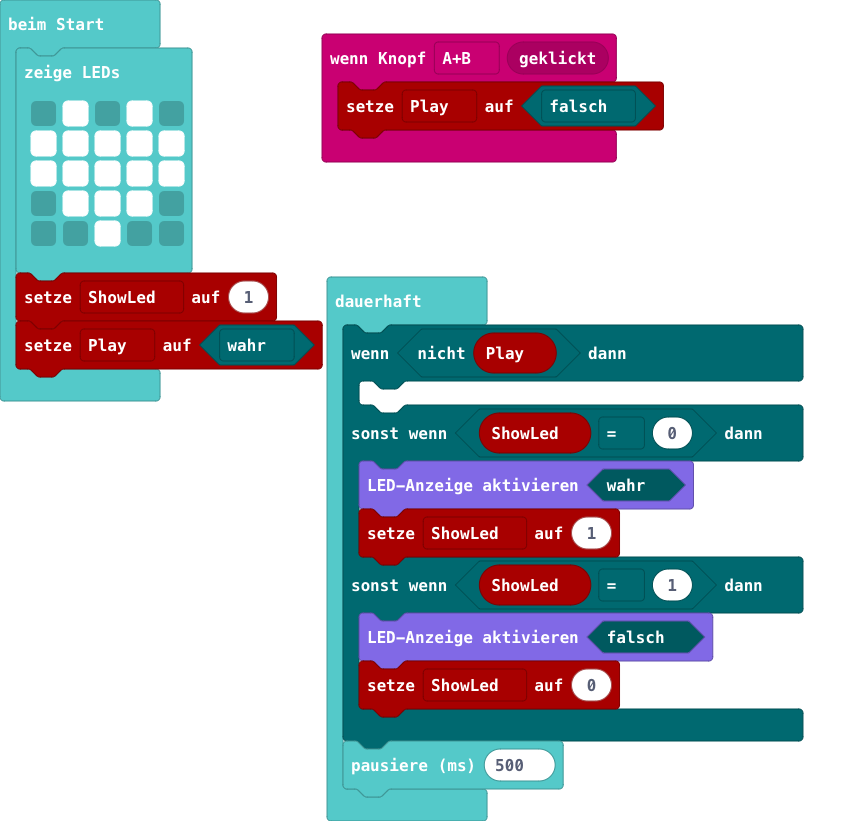
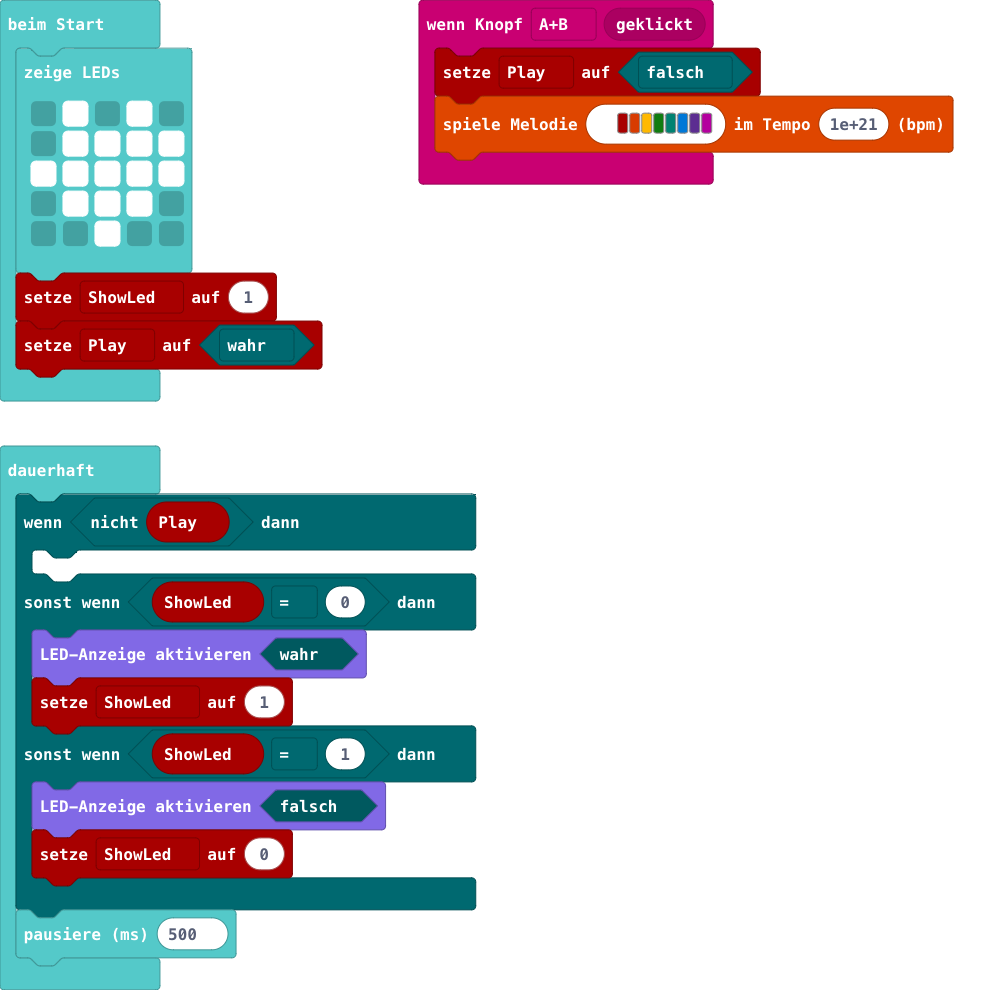
Aktualisiere main.blocks, main.ts

diff --git a/main.ts b/main.ts
@@ -1,10 +1,11 @@
 input.onButtonEvent(Button.AB, input.buttonEventClick(), function () {
     Play = false
+    music.playMelody("C5 B A G F E D C ", 1e+21)
 })
 let Play = false
 basic.showLeds(`
     . # . # .
-    # # # # #
+    . # # # #
     # # # # #
     . # # # .
     . . # . .
